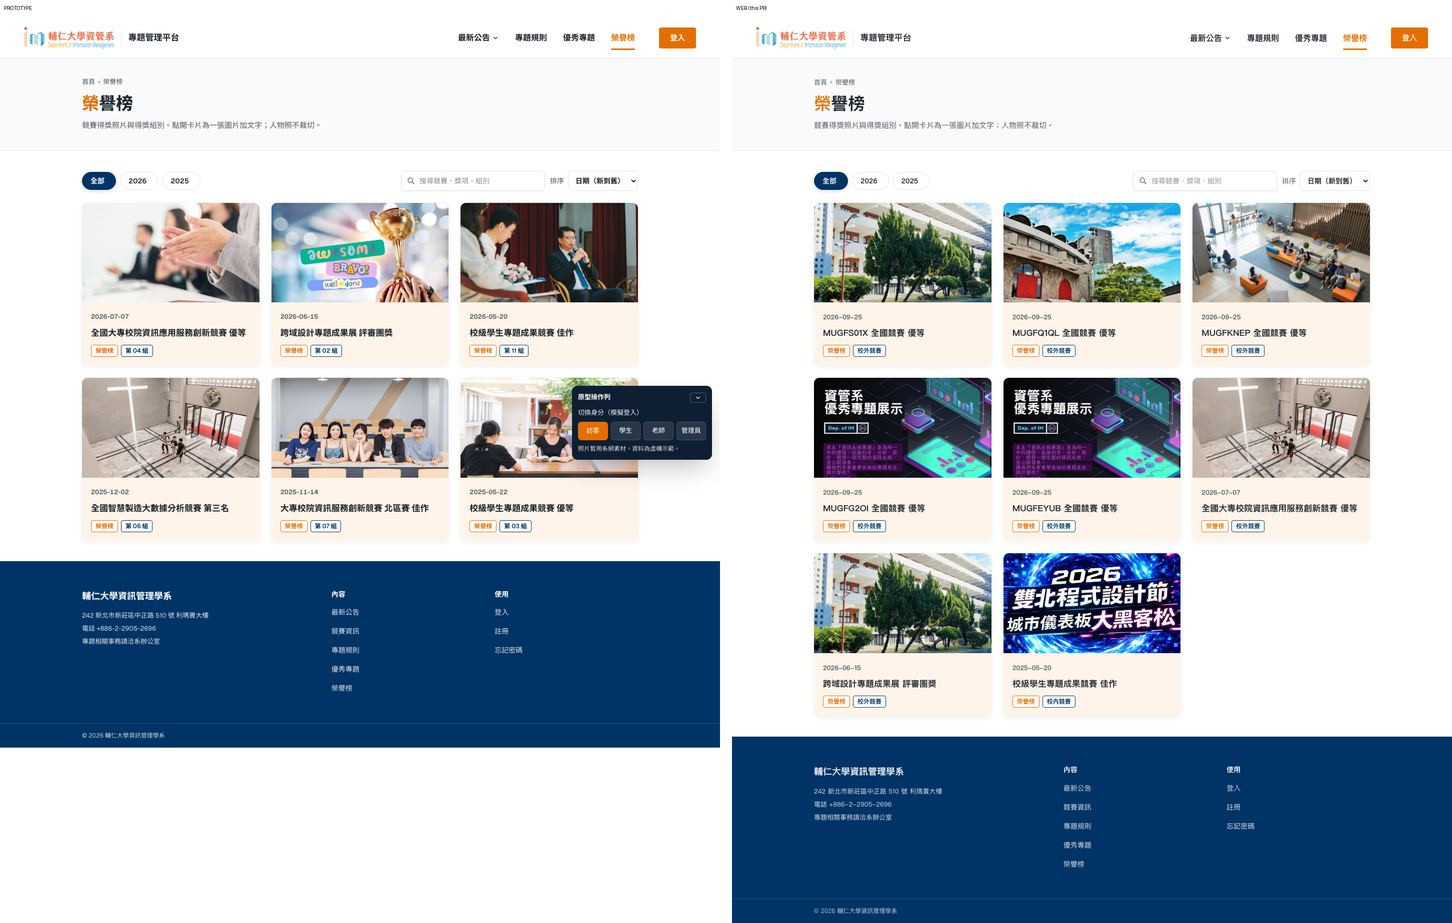
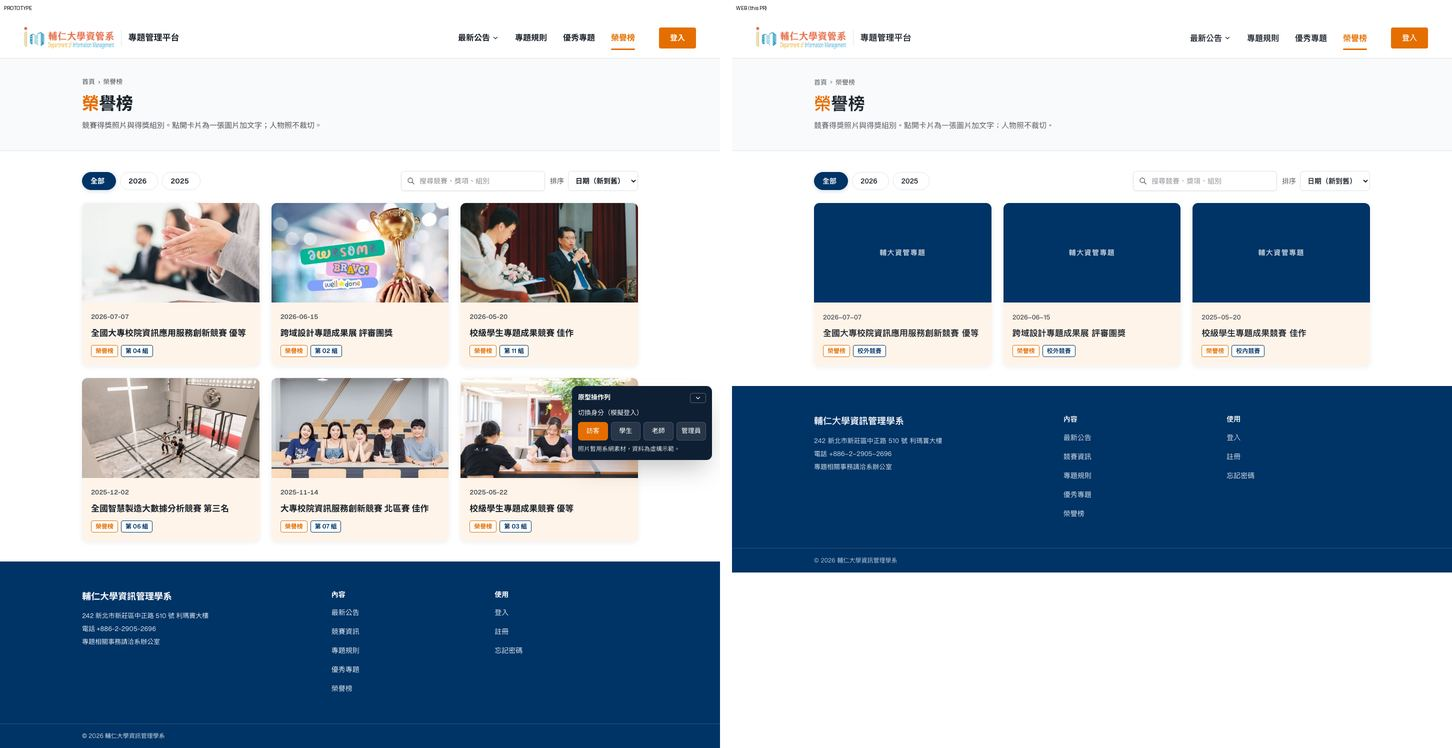
前台補頁：拿掉 web/public 佔位照片，沒圖改畫深藍色塊（配合 #290 的示範資料規則）
main 合併 #290 後規定示範圖片由示範資料當附件上傳、不進 web/public（seed-demo-guard 測試）。
沒有海報或封面的卡片改用 CoverImage 畫「輔大資管專題」深藍色塊（同 NewsCard）。
並排截圖重拍：本機跑 main 的 seed-demo（競賽資訊讀得到兩則），再補已發布精選與榮譽榜示範列。

Refs #283

diff --git a/web/src/app/_ui/photo-dialog-grid.tsx b/web/src/app/_ui/photo-dialog-grid.tsx
@@ -2,14 +2,14 @@
 import Link from 'next/link'
 import { useState } from 'react'
 import { IconArrowRight, IconChevronLeft, IconChevronRight } from '@tabler/icons-react'
-import { ToneTag, type TagTone } from '@/app/_ui/public-blocks'
+import { CoverImage, ToneTag, type TagTone } from '@/app/_ui/public-blocks'
 import { Dialog, DialogContent, DialogTitle } from '@/app/_ui/ui/dialog'
 import { cn } from '@/shared/cn'
 
 export type PhotoEntry = {
   readonly id: string
-  /** 已經算好的圖片網址（`/api/files/<id>` 或佔位圖）。 */
-  readonly image: string
+  /** 已經算好的圖片網址（`/api/files/<id>`）；沒有圖是 null（畫深藍色塊）。 */
+  readonly image: string | null
   readonly title: string
   readonly date?: string
   readonly tags: readonly { readonly label: string; readonly tone?: TagTone }[]
@@ -23,7 +23,7 @@ export type PhotoEntry = {
  * 「一圖一文」卡片格（原型 `components/public/photo-dialog-grid.tsx`；0715 §9 榮譽榜／優秀專題「點開是一張圖片＋文字」）。
  * 卡片點開 dialog，圖用 contain 不裁切（人物照不裁）；dialog 內可上一件／下一件。`initialOpenId` 給 `?item=` 深連結。
  *
- * 圖片用一般 `<img>`：`next/image` 會輸出 style 屬性，被正式站 CSP 擋。
+ * 圖片走 `CoverImage`（一般 `<img>`，沒圖畫色塊）。
  */
 export function PhotoDialogGrid({
   entries,
@@ -54,13 +54,7 @@ export function PhotoDialogGrid({
               aria-haspopup="dialog"
             >
               <div className="relative aspect-video overflow-hidden bg-muted">
-                {/* eslint-disable-next-line @next/next/no-img-element */}
-                <img
-                  src={e.image}
-                  alt=""
-                  loading="lazy"
-                  className="absolute inset-0 h-full w-full object-cover transition-transform duration-500 group-hover:scale-[1.03]"
-                />
+                <CoverImage src={e.image} className="transition-transform duration-500 group-hover:scale-[1.03]" />
               </div>
               <div className="flex flex-1 flex-col gap-2 p-4.5">
                 {e.date ? <span className="tabular text-[13px] font-semibold text-muted-foreground">{e.date}</span> : null}
@@ -86,8 +80,7 @@ export function PhotoDialogGrid({
           {current ? (
             <>
               <div className="relative min-h-[260px] bg-[#0b1a2b] md:min-h-[440px]">
-                {/* eslint-disable-next-line @next/next/no-img-element */}
-                <img src={current.image} alt={current.title} className="absolute inset-0 h-full w-full object-contain" />
+                <CoverImage src={current.image} alt={current.title} fit="contain" />
               </div>
               <div className="flex flex-col gap-3.5 p-7">
                 <div className="flex flex-wrap gap-1.5">

diff --git a/web/src/app/projects/[id]/page.tsx b/web/src/app/projects/[id]/page.tsx
@@ -4,10 +4,9 @@ import { notFound } from 'next/navigation'
 import { cache } from 'react'
 import { IconLock, IconPlayerPlay } from '@tabler/icons-react'
 import { currentActor } from '@/app/_ui/guard'
-import { ToneTag } from '@/app/_ui/public-blocks'
+import { CoverImage, fileImage, ToneTag } from '@/app/_ui/public-blocks'
 import { GoneNotice } from '@/app/_ui/public-content'
 import { SiteShell } from '@/app/_ui/site-shell'
-import { showcaseImage } from '@/app/projects/_image'
 import { getPublicShowcaseQuery } from '@/composition/showcase'
 
 /** 同一個請求裡 metadata 與頁面共用一次查詢。 */
@@ -48,7 +47,7 @@ export default async function ProjectDetailPage({ params }: { params: Promise<{ 
   const member = people !== null
   const backHref = member ? '/projects' : '/projects/featured'
   const backLabel = member ? '歷屆專題一覽' : '優秀專題'
-  const image = showcaseImage(item)
+  const image = fileImage(item.posterFileId)
   const facts: [string, string][] = member
     ? [
         ['屆別', `${item.cohortCode} 屆`],
@@ -81,9 +80,7 @@ export default async function ProjectDetailPage({ params }: { params: Promise<{ 
           </div>
           <h1 className="text-[26px] leading-snug font-extrabold text-foreground sm:text-[32px]">{item.title}</h1>
           <div className="relative aspect-video overflow-hidden rounded-xl bg-muted">
-            {/* next/image 會輸出 style 屬性，被正式站 CSP 擋。 */}
-            {/* eslint-disable-next-line @next/next/no-img-element */}
-            <img src={image} alt="" className="absolute inset-0 h-full w-full object-cover" />
+            <CoverImage src={image} />
             {item.videoUrl ? (
               <>
                 <a
@@ -146,11 +143,10 @@ export default async function ProjectDetailPage({ params }: { params: Promise<{ 
               </div>
             ))}
           </dl>
-          {item.posterFileId ? (
+          {image ? (
             <figure className="flex flex-col items-center gap-2">
               <div className="relative aspect-[3/4] w-full overflow-hidden rounded-xl bg-muted">
-                {/* eslint-disable-next-line @next/next/no-img-element */}
-                <img src={image} alt="成果海報" className="absolute inset-0 h-full w-full object-contain" />
+                <CoverImage src={image} alt="成果海報" fit="contain" />
               </div>
               <figcaption className="text-[13px] text-muted-foreground">成果海報</figcaption>
             </figure>

diff --git a/web/src/app/projects/page.tsx b/web/src/app/projects/page.tsx
@@ -4,11 +4,10 @@ import { IconFileText, IconPlayerPlay, IconSearchOff } from '@tabler/icons-react
 import type { SignedInShowcaseCard } from '@/application/showcase'
 import { currentActor, requireSignedIn } from '@/app/_ui/guard'
 import { PillLink } from '@/app/_ui/pill-link'
-import { ListState, PageBand, ToneTag } from '@/app/_ui/public-blocks'
+import { CoverImage, fileImage, ListState, PageBand, ToneTag } from '@/app/_ui/public-blocks'
 import { NeedLogin } from '@/app/_ui/public-content'
 import { SearchSortBar } from '@/app/_ui/search-sort-bar'
 import { SiteShell } from '@/app/_ui/site-shell'
-import { showcaseImage } from '@/app/projects/_image'
 import { getPublicShowcaseQuery, parseShowcaseSort, SHOWCASE_SORT_OPTIONS } from '@/composition/showcase'
 
 export const metadata: Metadata = {
@@ -28,14 +27,7 @@ function ProjectCard({ project: p }: { project: SignedInShowcaseCard }) {
       className="group flex h-full flex-col overflow-hidden rounded-xl border border-border bg-card transition-[transform,box-shadow] duration-300 hover:-translate-y-0.5 hover:shadow-[0_8px_22px_rgba(0,51,102,0.14)]"
     >
       <div className="relative aspect-video overflow-hidden bg-muted">
-        {/* next/image 會輸出 style 屬性，被正式站 CSP 擋。 */}
-        {/* eslint-disable-next-line @next/next/no-img-element */}
-        <img
-          src={showcaseImage(p)}
-          alt=""
-          loading="lazy"
-          className="absolute inset-0 h-full w-full object-cover transition-transform duration-500 group-hover:scale-[1.03]"
-        />
+        <CoverImage src={fileImage(p.posterFileId)} className="transition-transform duration-500 group-hover:scale-[1.03]" />
         {p.groupCode ? (
           <span className="absolute bottom-3 left-3 rounded bg-background/95 px-2 py-0.5 text-xs font-semibold text-foreground">{p.groupCode}</span>
         ) : null}

diff --git a/web/src/app/competitions/page.tsx b/web/src/app/competitions/page.tsx
@@ -2,11 +2,10 @@ import Link from 'next/link'
 import type { Metadata } from 'next'
 import { IconArrowRight, IconTrophy } from '@tabler/icons-react'
 import { currentActor } from '@/app/_ui/guard'
-import { ListState, PageBand, ToneTag } from '@/app/_ui/public-blocks'
+import { CoverImage, fileImage, ListState, PageBand, ToneTag } from '@/app/_ui/public-blocks'
 import { SearchSortBar } from '@/app/_ui/search-sort-bar'
 import { SiteShell } from '@/app/_ui/site-shell'
 import { getPublicItemQuery } from '@/composition/items'
-import { placeholderImageFor } from '@/composition/showcase'
 import { taipeiDateOf } from '@/shared/time'
 
 export const metadata: Metadata = {
@@ -80,15 +79,8 @@ export default async function CompetitionsPage({
                   data-testid="competition-card"
                   className="grid h-full overflow-hidden rounded-xl border border-border bg-card sm:grid-cols-[280px_minmax(0,1fr)]"
                 >
-                  <div className="relative aspect-video sm:aspect-auto">
-                    {/* next/image 會輸出 style 屬性，被正式站 CSP 擋。 */}
-                    {/* eslint-disable-next-line @next/next/no-img-element */}
-                    <img
-                      src={c.cover ? `/api/files/${c.cover.fileId}` : placeholderImageFor(c.id)}
-                      alt=""
-                      loading="lazy"
-                      className="absolute inset-0 h-full w-full object-cover"
-                    />
+                  <div className="relative aspect-video overflow-hidden sm:aspect-auto sm:min-h-52">
+                    <CoverImage src={fileImage(c.cover?.fileId)} />
                   </div>
                   <div className="flex flex-col gap-2.5 p-6">
                     <div className="flex items-center gap-2">

diff --git a/web/src/app/_ui/public-blocks.tsx b/web/src/app/_ui/public-blocks.tsx
@@ -54,6 +54,45 @@ export function PageBand({
   )
 }
 
+/**
+ * 卡片／詳情的圖：有檔案就走共用下載（`/api/files/<id>`，每次重驗權限），沒有就是深藍色塊（同 `NewsCard`）。
+ * 不放佔位照片：素材要有來源與授權（Q-SHW01），示範圖由示範資料當附件上傳，不進 `web/public`。
+ * 用一般 `<img>`：`next/image` 會輸出 style 屬性，被正式站 CSP 擋。放在 `relative` 的容器裡、鋪滿。
+ */
+export function CoverImage({
+  src,
+  alt = '',
+  fit = 'cover',
+  className,
+}: {
+  src: string | null
+  alt?: string
+  fit?: 'cover' | 'contain'
+  className?: string
+}) {
+  if (!src) {
+    return (
+      <div aria-hidden className="absolute inset-0 flex items-center justify-center bg-ink text-sm font-bold tracking-widest text-ink-foreground/80">
+        輔大資管專題
+      </div>
+    )
+  }
+  return (
+    // eslint-disable-next-line @next/next/no-img-element
+    <img
+      src={src}
+      alt={alt}
+      loading="lazy"
+      className={cn('absolute inset-0 h-full w-full', fit === 'cover' ? 'object-cover' : 'object-contain', className)}
+    />
+  )
+}
+
+/** 檔案 ID → 圖片網址（沒有就 null，交給 `CoverImage` 畫色塊）。 */
+export function fileImage(fileId: string | null | undefined): string | null {
+  return fileId ? `/api/files/${fileId}` : null
+}
+
 export type TagTone = 'brand' | 'navy'
 
 /** 細框標籤：橘＝要注意的／類別，深藍＝屆別、組別這類一般資訊。 */

diff --git a/web/src/app/honors/page.tsx b/web/src/app/honors/page.tsx
@@ -3,11 +3,10 @@ import { IconAward } from '@tabler/icons-react'
 import { currentActor } from '@/app/_ui/guard'
 import { PhotoDialogGrid, type PhotoEntry } from '@/app/_ui/photo-dialog-grid'
 import { PillLink } from '@/app/_ui/pill-link'
-import { ListState, PageBand } from '@/app/_ui/public-blocks'
+import { fileImage, ListState, PageBand } from '@/app/_ui/public-blocks'
 import { SearchSortBar } from '@/app/_ui/search-sort-bar'
 import { SiteShell } from '@/app/_ui/site-shell'
 import { getPublicItemQuery } from '@/composition/items'
-import { placeholderImageFor } from '@/composition/showcase'
 import { taipeiDateOf } from '@/shared/time'
 
 export const metadata: Metadata = {
@@ -58,7 +57,7 @@ export default async function HonorsPage({
     const date = taipeiDateOf(h.publishedAt)
     return {
       id: h.id,
-      image: h.cover ? `/api/files/${h.cover.fileId}` : placeholderImageFor(h.id),
+      image: fileImage(h.cover?.fileId),
       title: h.title,
       date,
       tags: [{ label: '榮譽榜' }, ...(h.category ? [{ label: h.category, tone: 'navy' as const }] : [])],

diff --git a/web/src/app/projects/featured/page.tsx b/web/src/app/projects/featured/page.tsx
@@ -2,10 +2,9 @@ import type { Metadata } from 'next'
 import { IconCrown } from '@tabler/icons-react'
 import { PhotoDialogGrid, type PhotoEntry } from '@/app/_ui/photo-dialog-grid'
 import { PillLink } from '@/app/_ui/pill-link'
-import { ListState, PageBand } from '@/app/_ui/public-blocks'
+import { fileImage, ListState, PageBand } from '@/app/_ui/public-blocks'
 import { SearchSortBar } from '@/app/_ui/search-sort-bar'
 import { SiteShell } from '@/app/_ui/site-shell'
-import { showcaseImage } from '@/app/projects/_image'
 import { getPublicShowcaseQuery, parseShowcaseSort, SHOWCASE_SORT_OPTIONS } from '@/composition/showcase'
 
 export const metadata: Metadata = {
@@ -47,7 +46,7 @@ export default async function FeaturedPage({
   }
   const entries: PhotoEntry[] = cards.map((p) => ({
     id: p.id,
-    image: showcaseImage(p),
+    image: fileImage(p.posterFileId),
     title: p.title,
     tags: [{ label: `${p.cohortCode} 屆`, tone: 'navy' }, ...(p.groupCode ? [{ label: p.groupCode }] : [])],
     summary: p.summary,

diff --git a/web/src/application/showcase/public.test.ts b/web/src/application/showcase/public.test.ts
@@ -1,5 +1,5 @@
 import { describe, expect, it } from 'vitest'
-import { parseShowcaseSort, placeholderImageFor, SHOWCASE_SORT_OPTIONS } from '@/application/showcase/public'
+import { parseShowcaseSort, SHOWCASE_SORT_OPTIONS } from '@/application/showcase/public'
 
 describe('parseShowcaseSort', () => {
   it('認得的排序原樣回傳', () => {
@@ -10,13 +10,5 @@ describe('parseShowcaseSort', () => {
     expect(parseShowcaseSort(undefined)).toBe('cohort')
     expect(parseShowcaseSort('excellent')).toBe('cohort')
     expect(parseShowcaseSort(['title'])).toBe('cohort')
-  })
-})
-
-describe('placeholderImageFor', () => {
-  it('同一個 ID 永遠同一張，而且是 public/placeholder 底下的 jpg', () => {
-    const a = placeholderImageFor('0190a8f0-0000-7000-8000-000000000001')
-    expect(a).toBe(placeholderImageFor('0190a8f0-0000-7000-8000-000000000001'))
-    expect(a).toMatch(/^\/placeholder\/[a-z]+\.jpg$/)
   })
 })

diff --git a/web/src/application/showcase/public.ts b/web/src/application/showcase/public.ts
@@ -16,25 +16,3 @@ export const SHOWCASE_SORT_OPTIONS: readonly { readonly value: ShowcaseSort; rea
 export function parseShowcaseSort(value: unknown): ShowcaseSort {
   return SHOWCASE_SORT_OPTIONS.find((o) => o.value === value)?.value ?? 'cohort'
 }
-
-/** 前台還沒有真照片時的佔位圖（`public/placeholder/*.jpg`；Q-SHW01 素材到位前）。同一個 ID 永遠拿到同一張。 */
-export const PLACEHOLDER_IMAGES = [
-  'showcase',
-  'present',
-  'students',
-  'study',
-  'hackathon',
-  'applause',
-  'trophy',
-  'campus',
-  'building',
-  'atrium',
-  'lounge',
-  'phone',
-] as const
-
-export function placeholderImageFor(id: string): string {
-  let hash = 0
-  for (const ch of id) hash = (hash * 31 + ch.charCodeAt(0)) >>> 0
-  return `/placeholder/${PLACEHOLDER_IMAGES[hash % PLACEHOLDER_IMAGES.length]}.jpg`
-}

diff --git a/web/src/application/showcase/index.ts b/web/src/application/showcase/index.ts
@@ -33,8 +33,6 @@ export type {
 } from '@/application/showcase/ports'
 export {
   parseShowcaseSort,
-  PLACEHOLDER_IMAGES,
-  placeholderImageFor,
   SHOWCASE_SORT_OPTIONS,
 } from '@/application/showcase/public'
 export { describeCreateDraftReceipt, describeUpdateDraftReceipt } from '@/application/showcase/receipts'

diff --git a/web/src/composition/showcase.ts b/web/src/composition/showcase.ts
@@ -40,7 +40,6 @@ export {
   describeUpdateDraftReceipt,
   GATE_PLACEHOLDER,
   parseShowcaseSort,
-  placeholderImageFor,
   POSTER_UPLOAD,
   SHOWCASE_LIMITS,
   SHOWCASE_SORT_OPTIONS,
